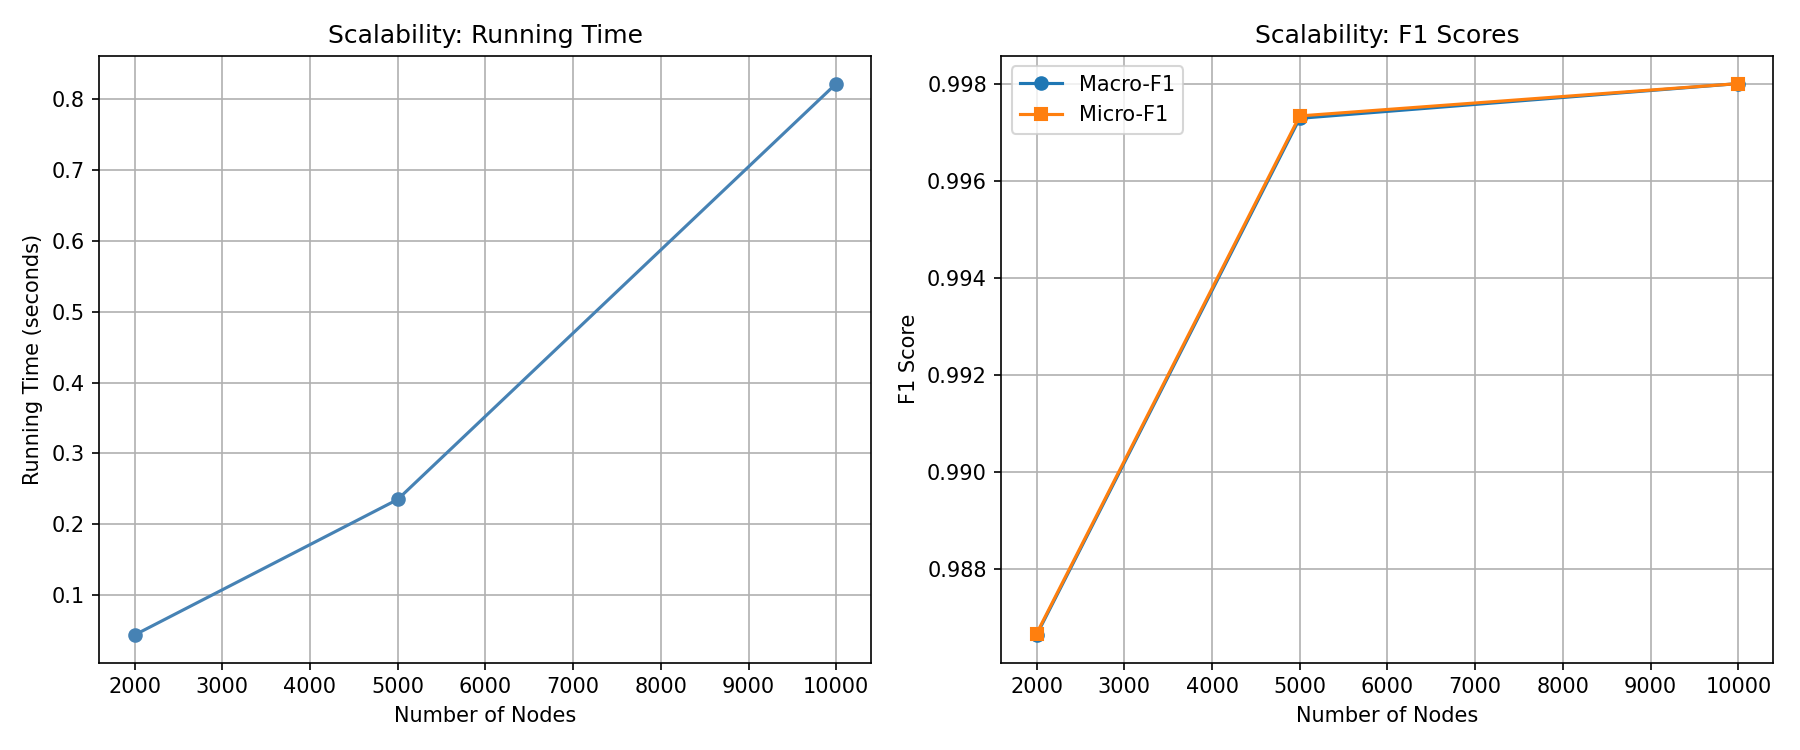
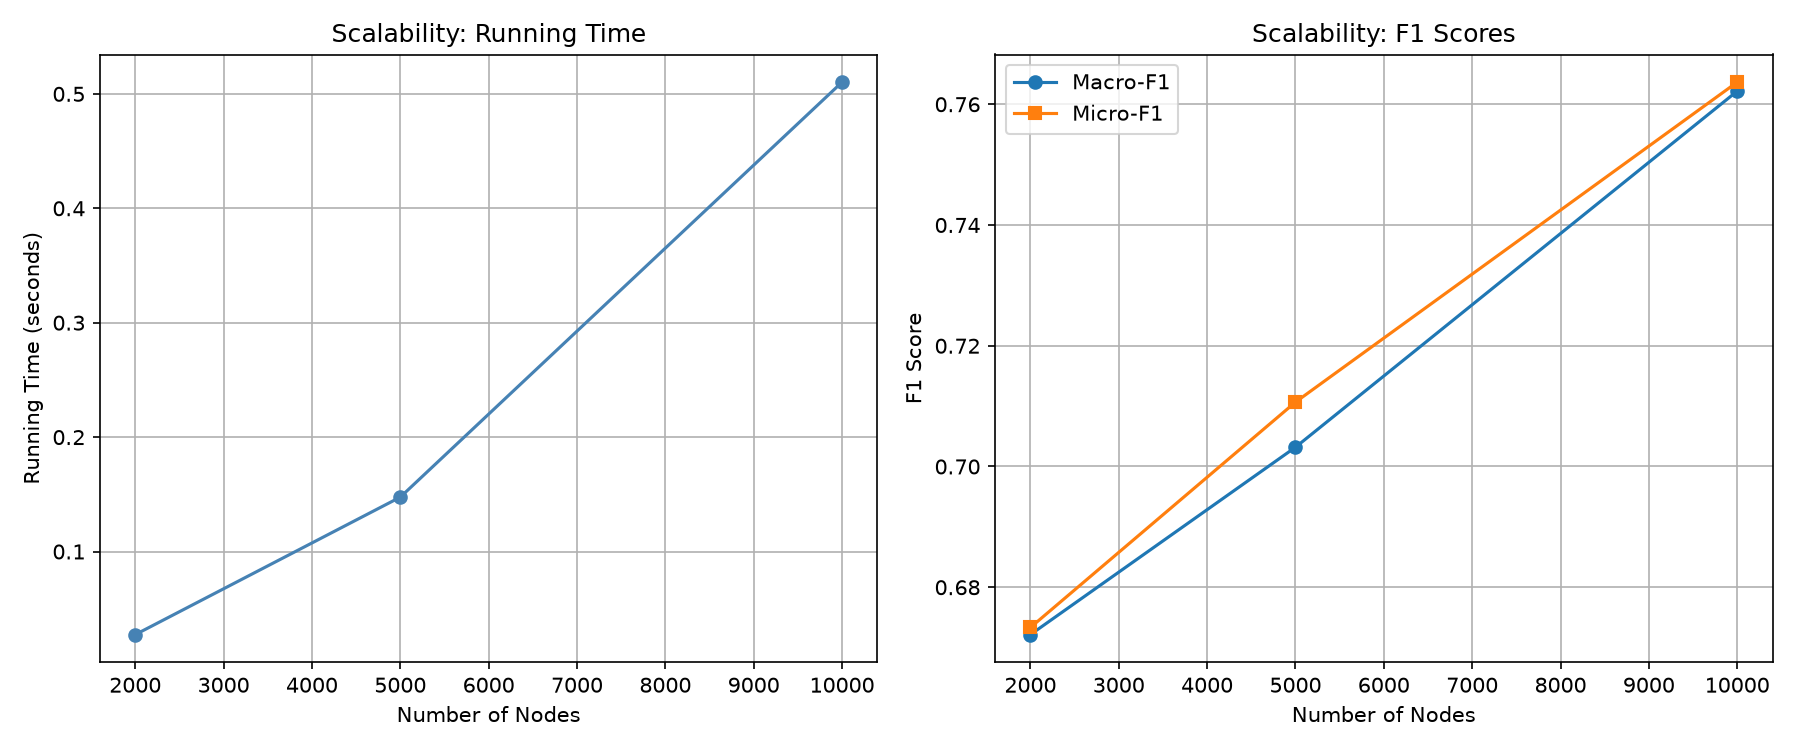
Fix target leakage in graph benchmark

diff --git a/tests/test_knn_classifier.py b/tests/test_knn_classifier.py
@@ -1,0 +1,63 @@
+import unittest
+
+import networkx as nx
+import numpy as np
+
+from knn_classifier import (
+    DATA_DIR,
+    bfs_sample,
+    extract_features_fast,
+    knn_predict,
+    load_graph,
+    split_data,
+)
+
+
+class KnnClassifierTests(unittest.TestCase):
+    def test_included_dataset_metadata_matches_loaded_graph(self):
+        graph = load_graph(DATA_DIR / 'CA-GrQc.txt')
+
+        self.assertEqual(graph.number_of_nodes(), 5242)
+        self.assertEqual(graph.number_of_edges(), 14496)
+
+    def test_scalability_features_exclude_degree_label_source(self):
+        graph = nx.star_graph(4)
+
+        features, labels = extract_features_fast(graph)
+
+        self.assertEqual(features.shape, (5, 1))
+        np.testing.assert_allclose(
+            features[:, 0],
+            [1.0, 4.0, 4.0, 4.0, 4.0],
+        )
+        np.testing.assert_array_equal(labels, [1, 0, 0, 0, 0])
+
+    def test_bfs_sample_respects_requested_size(self):
+        graph = nx.path_graph(10)
+
+        sampled = bfs_sample(graph, start_node=0, size=4)
+
+        self.assertEqual(sampled, {0, 1, 2, 3})
+
+    def test_split_data_is_reproducible(self):
+        features = np.arange(20).reshape(10, 2)
+        labels = np.arange(10)
+
+        first = split_data(features, labels, seed=7)
+        second = split_data(features, labels, seed=7)
+
+        for first_array, second_array in zip(first, second):
+            np.testing.assert_array_equal(first_array, second_array)
+
+    def test_knn_predicts_nearest_class(self):
+        train_features = np.array([[0.0], [0.2], [0.8], [1.0]])
+        train_labels = np.array([0, 0, 1, 1])
+        test_features = np.array([[0.1], [0.9]])
+
+        predictions = knn_predict(train_features, train_labels, test_features, k=3)
+
+        np.testing.assert_array_equal(predictions, [0, 1])
+
+
+if __name__ == '__main__':
+    unittest.main()

diff --git a/knn_classifier.py b/knn_classifier.py
@@ -3,7 +3,7 @@ import networkx as nx
 import matplotlib.pyplot as plt
 import time
 import os
-from collections import Counter
+from collections import Counter, deque
 from pathlib import Path
 
 
@@ -43,21 +43,43 @@ def extract_features(G):
 
 
 def extract_features_fast(G):
-    # faster version that skips clustering coefficient
-    # uses degree and average neighbor degree only
+    """Extract a low-cost feature without reusing degree as an input.
+
+    Degree defines the synthetic high/low-degree target, so including degree in
+    the feature matrix would leak the answer into the scalability benchmark.
+    Average neighbor degree remains inexpensive to compute and independent of
+    the target definition for the node being classified.
+    """
     nodes = sorted(G.nodes())
     deg = dict(G.degree())
     avg_nd = nx.average_neighbor_degree(G)
 
     X = []
     for n in nodes:
-        X.append([deg[n], avg_nd[n]])
+        X.append([avg_nd[n]])
 
     degrees = [deg[n] for n in nodes]
     median_deg = np.median(degrees)
     y = [1 if deg[n] > median_deg else 0 for n in nodes]
 
     return np.array(X), np.array(y)
+
+
+def bfs_sample(G, start_node, size):
+    """Return up to ``size`` nodes discovered by breadth-first search."""
+    visited = {start_node}
+    queue = deque([start_node])
+
+    while len(visited) < size and queue:
+        node = queue.popleft()
+        for neighbor in G.neighbors(node):
+            if neighbor not in visited:
+                visited.add(neighbor)
+                queue.append(neighbor)
+                if len(visited) >= size:
+                    break
+
+    return visited
 
 
 def normalize(X_train, X_test):
@@ -206,17 +228,7 @@ if __name__ == '__main__':
 
     for size in sample_sizes:
         print("\nBFS sampling %d nodes..." % size)
-        visited = set()
-        queue = [start_node]
-        visited.add(start_node)
-        while len(visited) < size and queue:
-            node = queue.pop(0)
-            for neighbor in G_large.neighbors(node):
-                if neighbor not in visited:
-                    visited.add(neighbor)
-                    queue.append(neighbor)
-                    if len(visited) >= size:
-                        break
+        visited = bfs_sample(G_large, start_node, size)
 
         G_sub = G_large.subgraph(list(visited)).copy()
         # remove isolated nodes just in case

diff --git a/README.md b/README.md
@@ -15,24 +15,29 @@
 
 ## 📋 Overview
 
-A complete **k-Nearest Neighbors classification pipeline** that operates on real-world graph data. The project extracts structural features from collaboration networks and uses them to classify nodes — all implemented **from scratch** without scikit-learn.
+A complete **k-Nearest Neighbors classification pipeline** that operates on real-world graph data. The project extracts structural features from collaboration networks and uses them to classify a transparent synthetic target: whether a node's degree is above the graph median. The classifier and evaluation metrics are implemented **from scratch** without scikit-learn.
 
 ### Datasets
-| Dataset | Nodes | Edges | Availability |
-|---------|-------|-------|--------------|
-| CA-GrQc | 5,242 | 28,980 | Included in `data/` |
+| Dataset | Nodes | Unique undirected edges | Availability |
+|---------|-------|-------------------------|--------------|
+| CA-GrQc | 5,242 | 14,496 | Included in `data/` |
 | com-DBLP | 317,080 | 1,049,866 | Optional; download separately from SNAP |
+
+The included CA-GrQc edge list contains 28,980 directed rows. Loading it as an
+undirected collaboration graph collapses reciprocal pairs to 14,496 unique
+edges, matching the graph that the classifier evaluates.
 
 ---
 
 ## ✨ Features
 
 - 🧠 **k-NN from scratch** — No scikit-learn; core algorithm hand-implemented
-- 📐 **Graph feature extraction** — Degree, clustering coefficient, average neighbor degree
+- 📐 **Leakage-aware graph features** — Clustering coefficient and average neighbor degree; the label-defining node degree is never an input feature
 - 📊 **Multi-k evaluation** — Tests k = 1, 3, 5, 7, 9
 - 📈 **Evaluation metrics** — Macro-F1 and Micro-F1 scores
 - ⏱️ **Efficiency benchmarks** — Running time analysis per k value
-- 📉 **Scalability testing** — Performance on both small and large datasets
+- 📉 **Scalability testing** — Linear-time BFS sampling and a low-cost, non-label feature for the optional large dataset
+- ✅ **Regression tests and CI** — Offline unit coverage on Python 3.10 and 3.12
 - 📊 **Auto-generated plots** — Effectiveness, efficiency, and scalability charts
 
 ---
@@ -47,6 +52,12 @@ A complete **k-Nearest Neighbors classification pipeline** that operates on real
 
 ### Scalability
 <img src="results/scalability.png" width="600"/>
+
+The target is intentionally synthetic rather than a real-world node category.
+The main evaluation uses clustering coefficient and average neighbor degree;
+the scalability benchmark uses average neighbor degree alone to keep feature
+extraction inexpensive. Neither path includes the node degree that defines the
+target, avoiding direct target leakage. Runtime values are machine-dependent.
 
 ---
 
@@ -81,6 +92,16 @@ not committed to this repository. Download `com-dblp.ungraph.txt` from the
 and place it in `data/`; the same command will detect it and add the scalability
 benchmark.
 
+### Run the Tests
+
+```bash
+python -m unittest discover -s tests -v
+```
+
+The tests cover dataset metadata, the leakage guard, BFS sampling, deterministic
+splitting, and the hand-written k-NN predictor. GitHub Actions runs the same
+offline suite on Python 3.10 and 3.12.
+
 ---
 
 ## 🏗️ How It Works
@@ -89,9 +110,9 @@ benchmark.
 ```
 Raw Graph (edge list)
     │
-    ├── Compute node degree
-    ├── Compute clustering coefficient
-    └── Compute average neighbor degree
+    ├── Compute clustering coefficient (main evaluation)
+    ├── Compute average neighbor degree (all evaluations)
+    └── Compute node degree (label only)
     │
     ▼
 Feature Matrix [n_nodes × 2]
@@ -120,6 +141,9 @@ Evaluation (Macro-F1, Micro-F1, Runtime)
 knn-graph-classifier/
 ├── knn_classifier.py    # Main pipeline: feature extraction, k-NN, evaluation
 ├── requirements.txt     # Python runtime dependencies
+├── tests/
+│   └── test_knn_classifier.py # Offline regression tests
+├── .github/workflows/test.yml # Python CI matrix
 ├── data/
 │   └── CA-GrQc.txt      # Small dataset (Arxiv collaborations)
 ├── results/